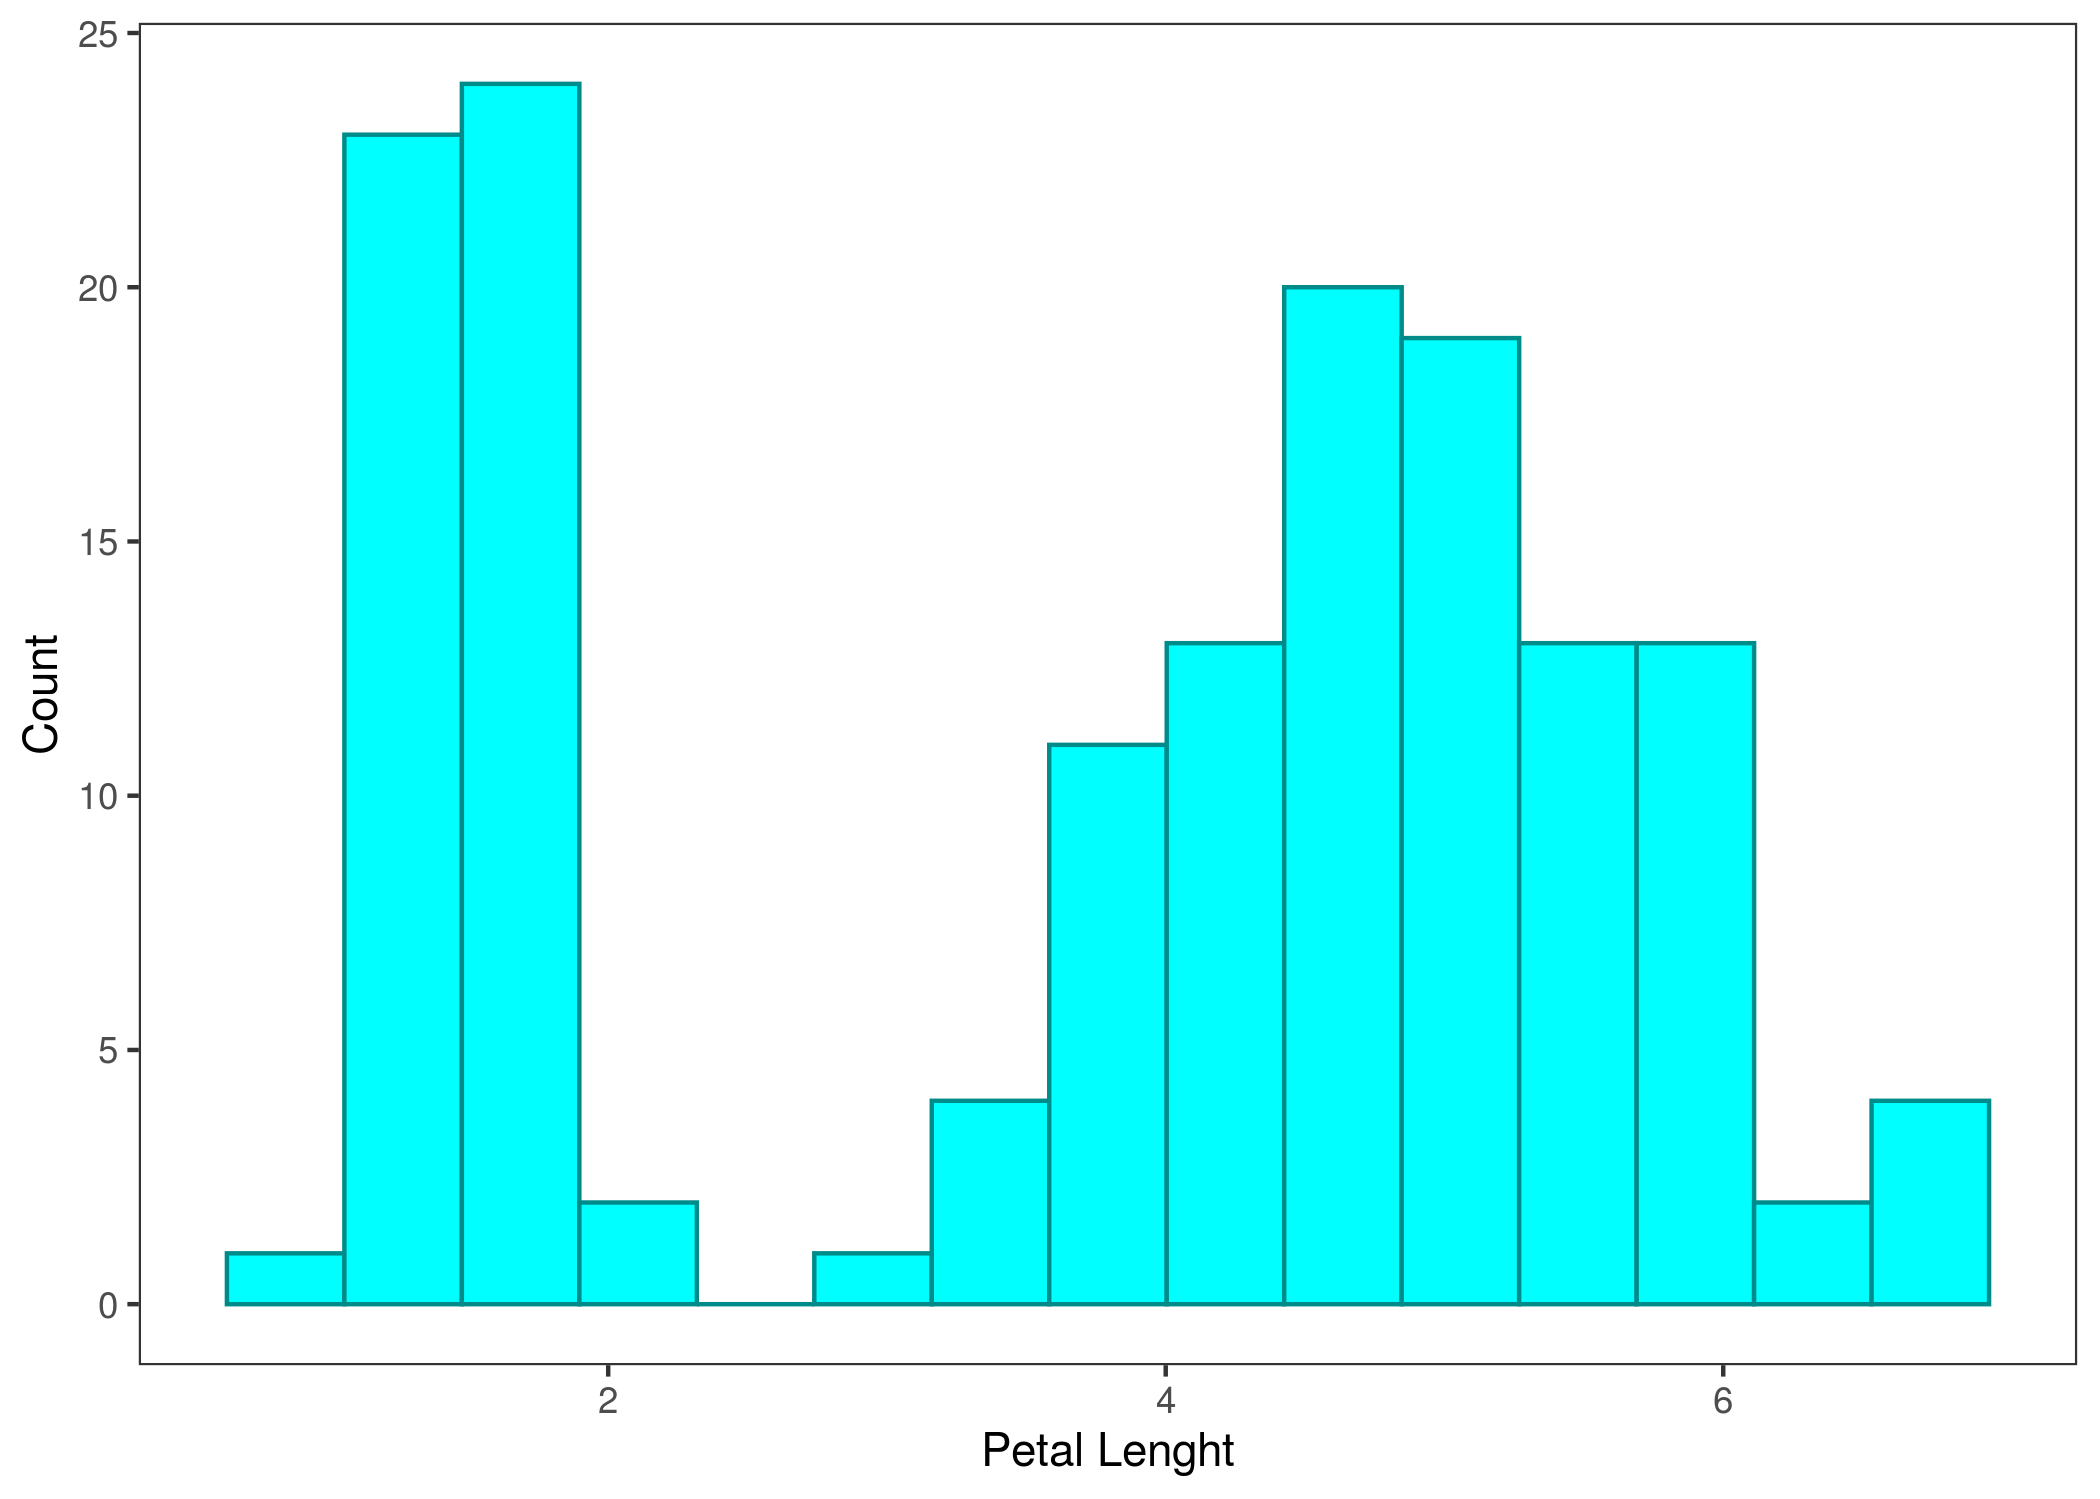
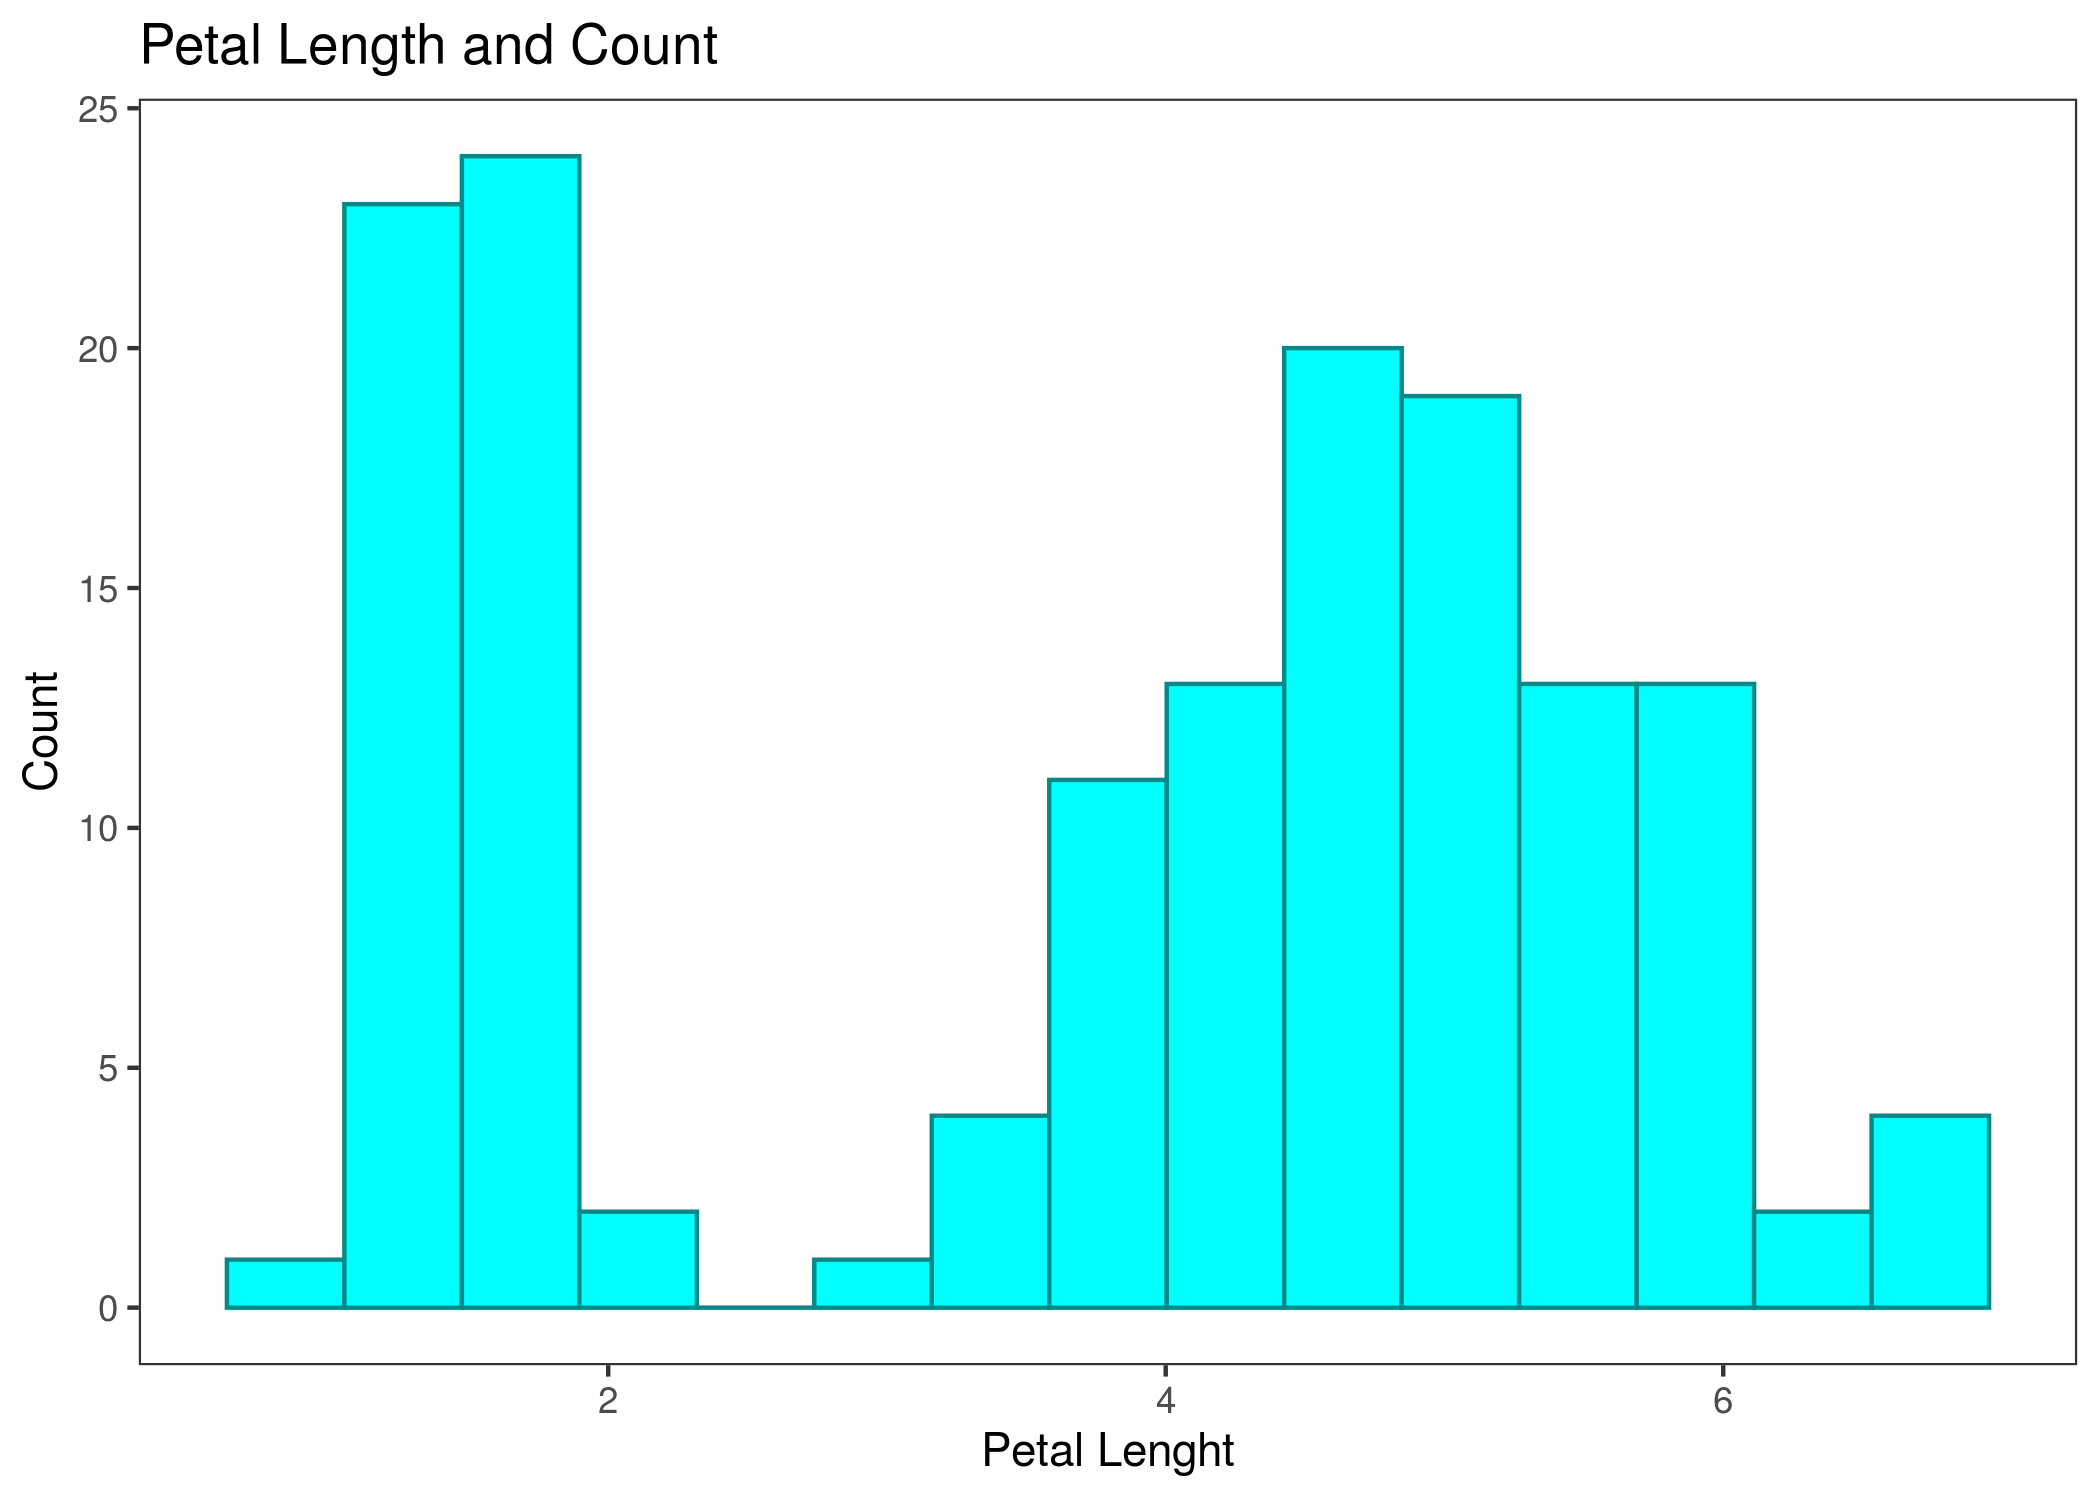
modified to have a title on histogram

diff --git a/practice_plot_github.html b/practice_plot_github.html
@@ -371,12 +371,12 @@ summary {
 
 <pre class="r"><code>ggplot(iris, aes(x = Petal.Length)) +
   geom_histogram(fill = &quot;cyan1&quot;, color = &quot;darkcyan&quot;, bins = 15) +
-  theme_test () + labs(x = &quot;Petal Lenght&quot;, y = &quot;Count&quot;) -&gt; p
+  theme_test () + labs(x = &quot;Petal Lenght&quot;, y = &quot;Count&quot;, title = &quot;Petal Length and Count&quot;) -&gt; p
 
 ggsave(&quot;practice_plot.png&quot;, p)</code></pre>
 <pre><code>## Saving 7 x 5 in image</code></pre>
 <pre class="r"><code>p</code></pre>
[2 lines of base64/hex data omitted]
 
 
 
